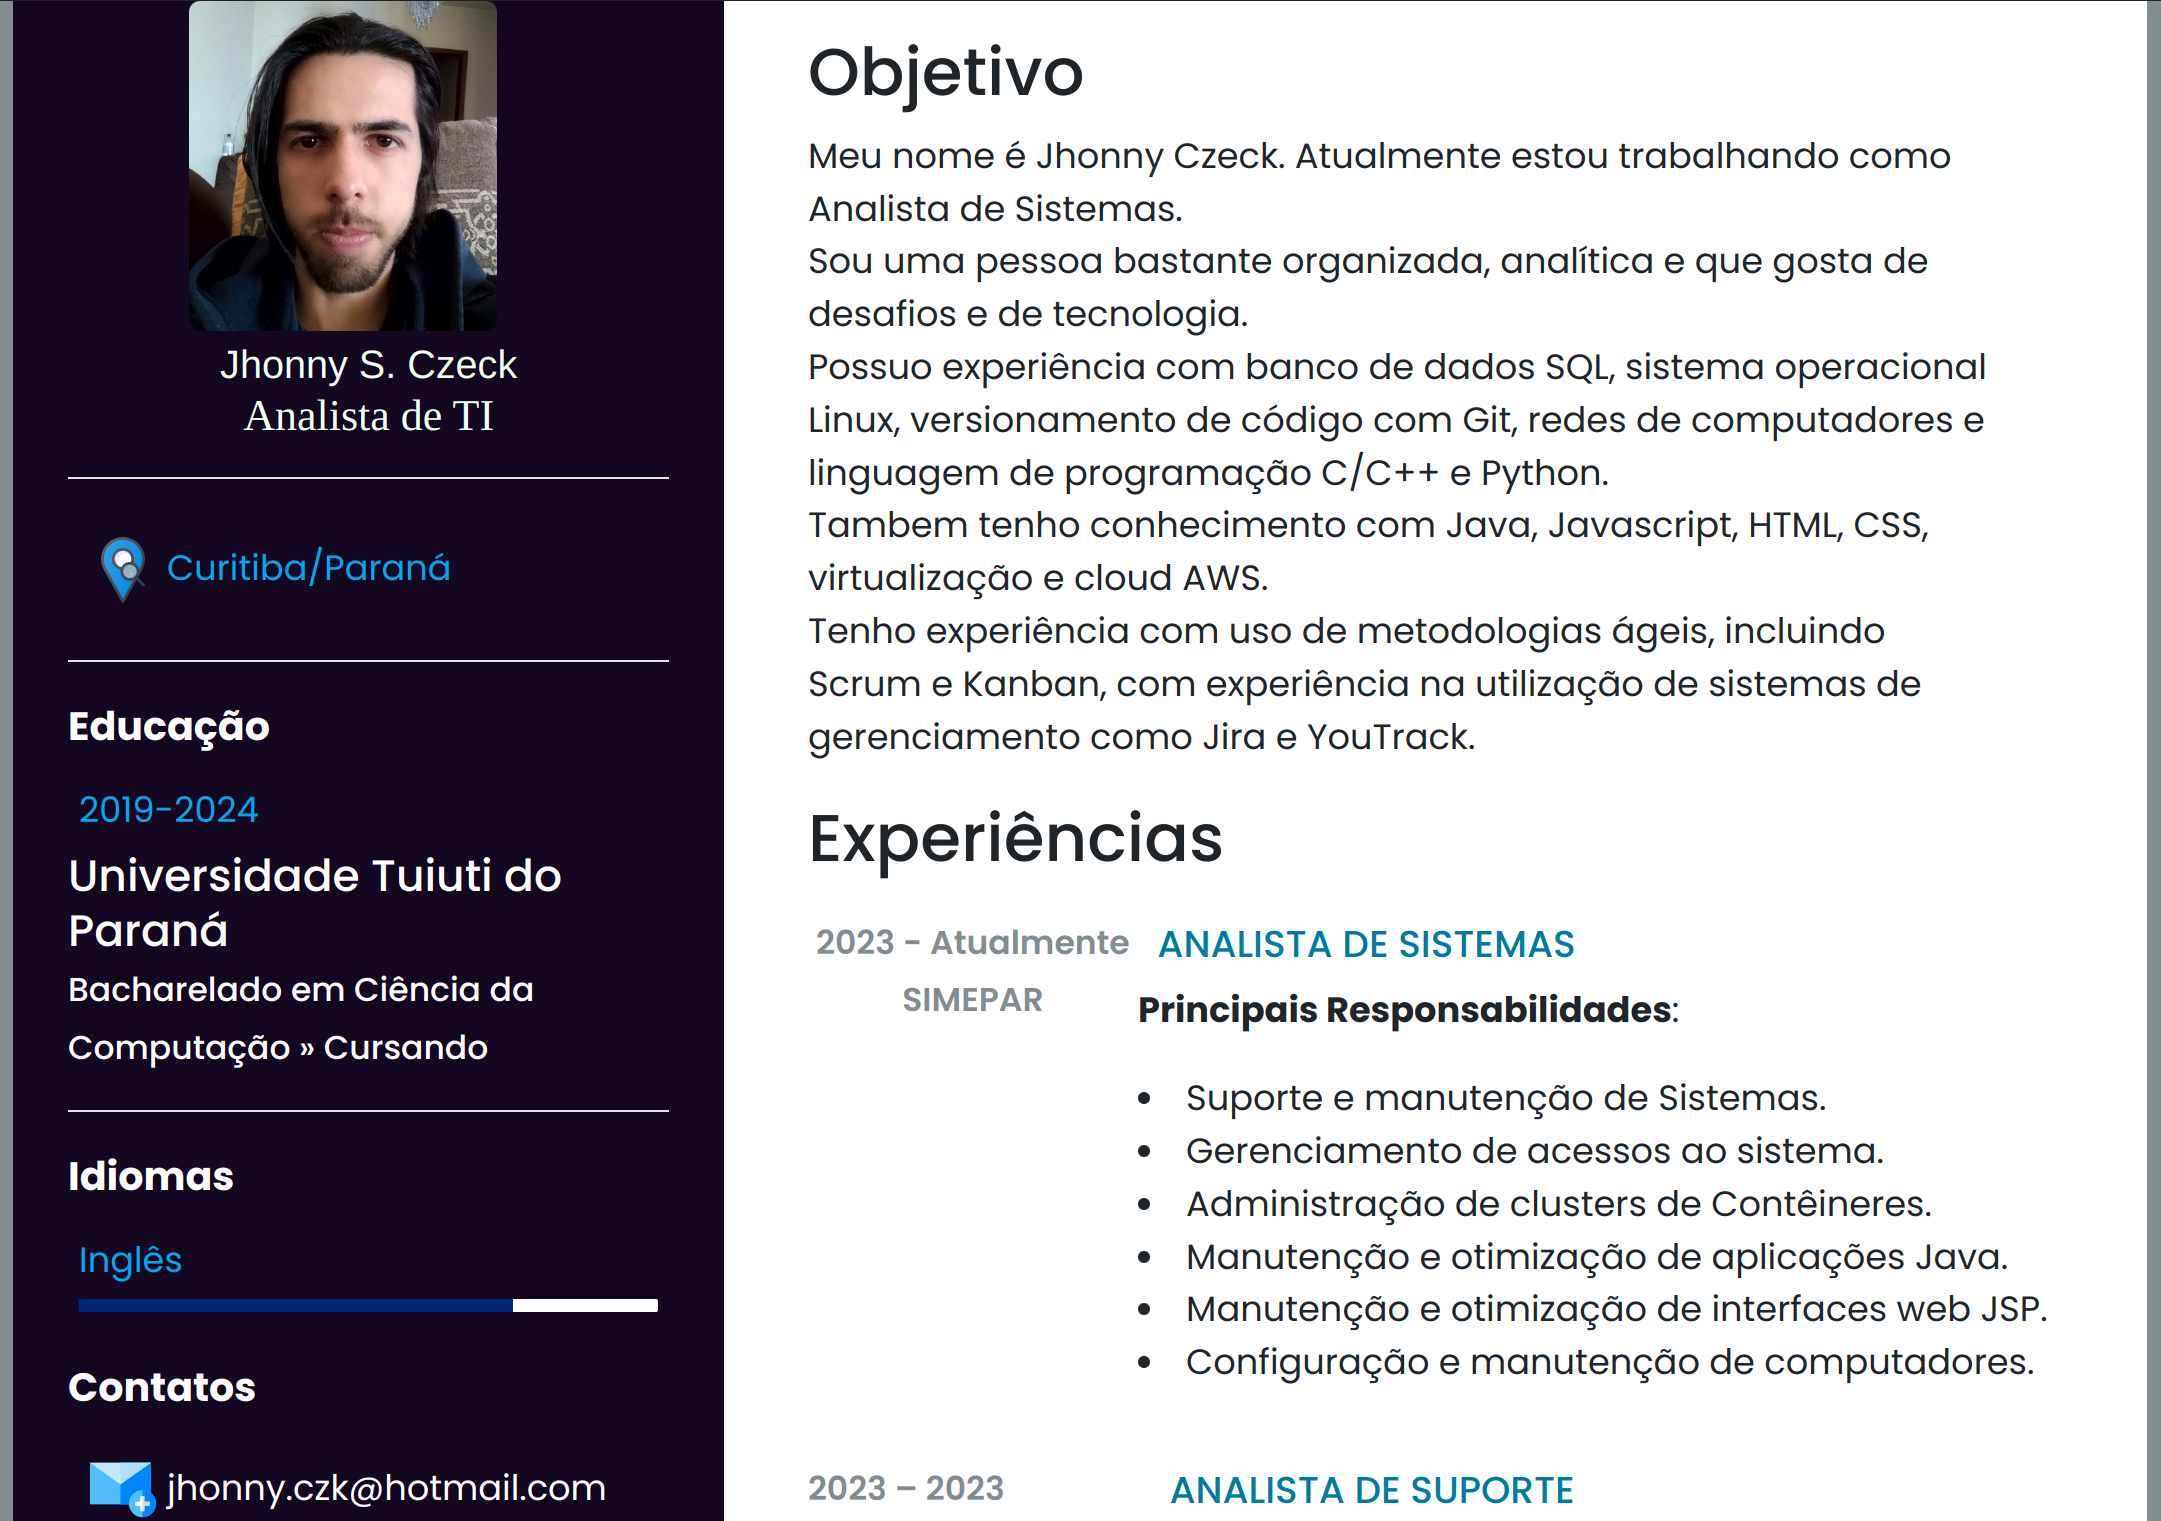
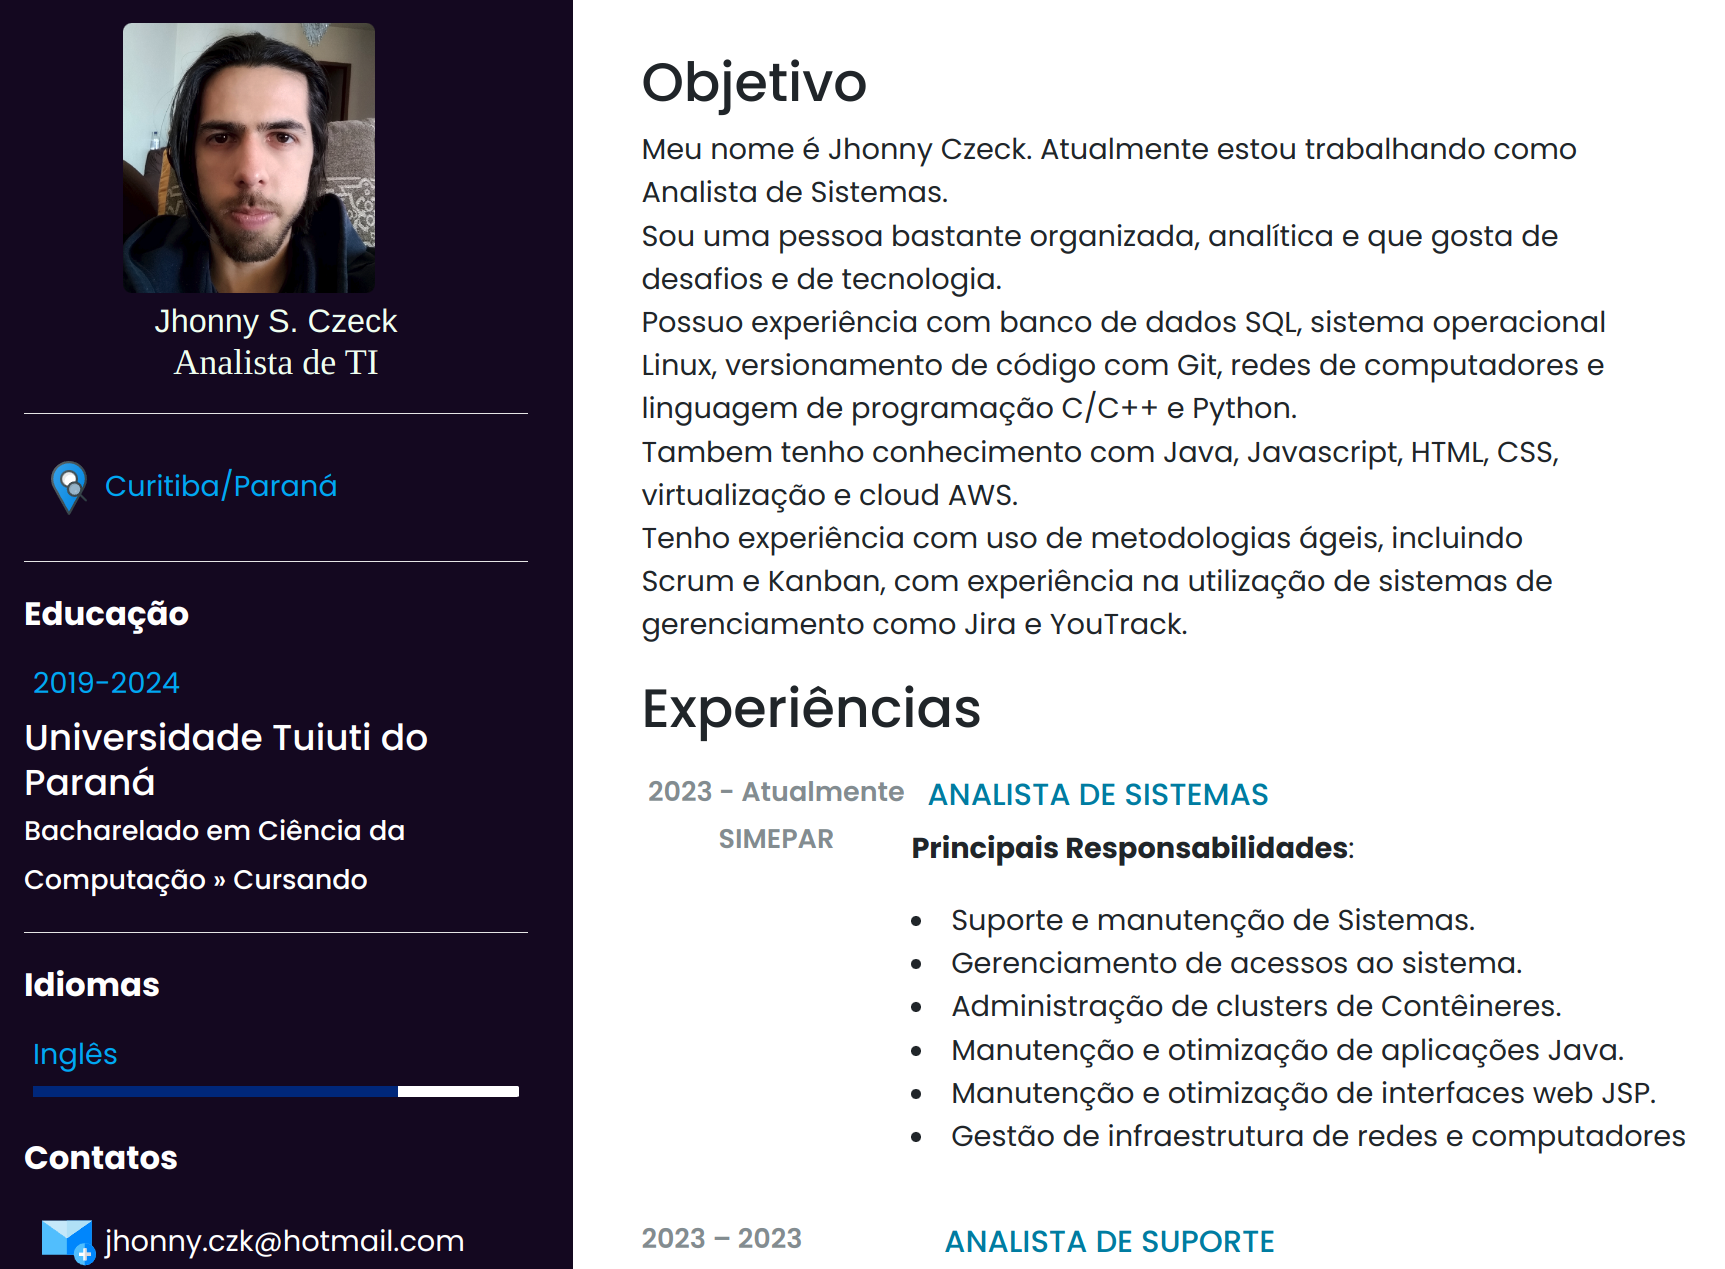
updating files

diff --git a/curriculo/index.html b/curriculo/index.html
@@ -80,7 +80,7 @@
                 Meu nome é Jhonny Czeck. Atualmente estou trabalhando como Analista de Sistemas.
                 <br>
                 Sou uma pessoa bastante organizada, analítica 
-                e que gosta de desafios e de tecnologia. <br>
+                e que gosta de &nbsp desafios e de tecnologia. <br>
                 Possuo experiência com banco de dados SQL, sistema operacional Linux,
                 versionamento de código com Git,  
                 redes de computadores e linguagem de programação C/C++ e Python. <br>
@@ -106,7 +106,7 @@
                             <li>Administração de clusters de Contêineres.</li>
                             <li>Manutenção e otimização de aplicações Java.</li>
                             <li>Manutenção e otimização de interfaces web JSP.</li>
-                            <li>Configuração e manutenção de computadores.</li>                  
+                            <li>Gestão de infraestrutura de redes e computadores</li>                  
                         </p>
                     </div>
                 </div>

diff --git a/curriculo/styles/style.css b/curriculo/styles/style.css
@@ -17,7 +17,7 @@ body{
 .container{
     position: relative;
     width: 100%;
-    max-width: 1000px;
+    max-width: 1020px;
     min-height: 1000px;
     margin: 50px;
     display: grid;
